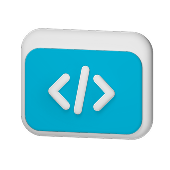
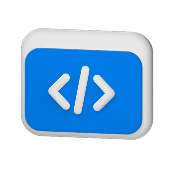
UI polish

Changed region(s): [[0.1471, 0.2647, 0.8529, 0.7941]]

diff --git a/components-docs/hero-card/muti-card.tsx b/components-docs/hero-card/muti-card.tsx
@@ -2,6 +2,7 @@ import { Button } from "@/components/ui/button"
 import { ArrowRight } from "lucide-react"
 import Link from "next/link"
 import { getHeroColorClasses, HeroThemeColor } from "./hero-color-classes"
+import Image from "next/image"
 
 type MutiCardButton = {
     label: string
@@ -21,13 +22,15 @@ export const MutiCard = ({ className, IconImage, title, description, themeColor,
     const colorClass = getHeroColorClasses(themeColor)
 
     return (
-        <div className={`${className} p-5 sm:p-6 min-h-40 rounded-2xl flex flex-col relative border ${colorClass.border} group overflow-hidden ${colorClass.gradient} shadow-sm hover:shadow-md transition-all duration-200 ease-out`}>
+        <div className={`${className} p-5 sm:p-6 min-h-40 rounded-lg flex flex-col relative border ${colorClass.border} group overflow-hidden ${colorClass.gradient} shadow-sm hover:shadow-md transition-all duration-200 ease-out`}>
 
+            {/* text area */}
             <div className="flex flex-col gap-2 max-w-[60%] lg:max-w-[64%] w-full">
                 <div className={`text-base sm:text-lg font-semibold tracking-tight z-10 ${colorClass.titleColor}`}>{title}</div>
                 <div className={`text-xs sm:text-sm leading-relaxed line-clamp-2 text-ellipsis z-10 ${colorClass.descriptionColor}`}>{description}</div>
             </div>
 
+            {/* buttons area */}
             <div className="flex flex-row flex-wrap gap-2 mt-4 md:mt-5 items-center z-10">
                 {buttons && buttons.length > 0 && buttons.map((button) => (
                     <Link href={button.href} key={button.label} className="flex-shrink-0 no-underline">
@@ -42,10 +45,13 @@ export const MutiCard = ({ className, IconImage, title, description, themeColor,
                 ))}
             </div>
 
-            <img
+            {/* icon area */}
+            <Image
+                width={100}
+                height={100}
                 src={`/docs/images/bento/${IconImage}`}
-                alt={title}
-                className="size-24 md:size-28 !p-0 !m-0 object-contain absolute right-3 md:right-4 top-1/2 -translate-y-1/2 opacity-90 md:opacity-100 pointer-events-none select-none"
+                alt={`${title} 的图标`}
+                className="absolute right-3 md:right-4 top-0 bottom-0 my-auto opacity-90 md:opacity-100 pointer-events-none select-none"
             />
         </div>
     )

diff --git a/components-docs/hero-card/single-card.tsx b/components-docs/hero-card/single-card.tsx
@@ -1,6 +1,7 @@
 import { ChevronRight } from "lucide-react"
 import Link from "next/link"
 import { getHeroColorClasses, HeroThemeColor } from "./hero-color-classes"
+import Image from "next/image"
 
 type SingleCardProps = {
     className: string
@@ -17,17 +18,21 @@ export const SingleCard = ({ className, IconImage, title, description, themeColo
     return (
         <Link
             href={href}
-            className={`${className} p-5 sm:p-6 h-40 rounded-2xl flex flex-col items-start justify-end relative border ${colorClass.border} group cursor-pointer overflow-hidden ${colorClass.gradient} shadow-sm hover:shadow-md transition-all duration-200 ease-out no-underline`}>
+            className={`${className} p-5 sm:p-6 h-40 rounded-lg flex flex-col items-start justify-end relative border ${colorClass.border} group cursor-pointer overflow-hidden ${colorClass.gradient} shadow-sm hover:shadow-md transition-all duration-200 ease-out no-underline`}>
            
+            {/* text area */}
             <div className="flex flex-col gap-2 max-w-[60%] lg:max-w-[64%] w-full">
                 <div className={`text-base sm:text-lg font-semibold tracking-tight z-10 ${colorClass.titleColor}`}>{title}</div>
                 <div className={`text-xs sm:text-sm leading-relaxed line-clamp-2 text-ellipsis z-10 ${colorClass.descriptionColor}`}>{description}</div>
             </div>
 
-            <img
+            {/* icon area */}
+            <Image
+                width={100}
+                height={100}
                 src={`/docs/images/bento/${IconImage}`}
-                alt={title}
-                className="size-24 md:size-28 !p-0 !m-0 object-contain absolute right-3 md:right-4 top-1/2 -translate-y-1/2 opacity-90 md:opacity-100 pointer-events-none select-none"
+                alt={`${title} 的图标`}
+                className="absolute right-3 md:right-4 top-0 bottom-0 my-auto opacity-90 md:opacity-100 pointer-events-none select-none"
             />
             <ChevronRight className="size-7 md:size-8 absolute top-1/2 right-7 md:right-8 -translate-y-1/2 opacity-0 group-hover:opacity-100 group-hover:right-4 md:group-hover:right-5 transition-all duration-200" />
         </Link>
